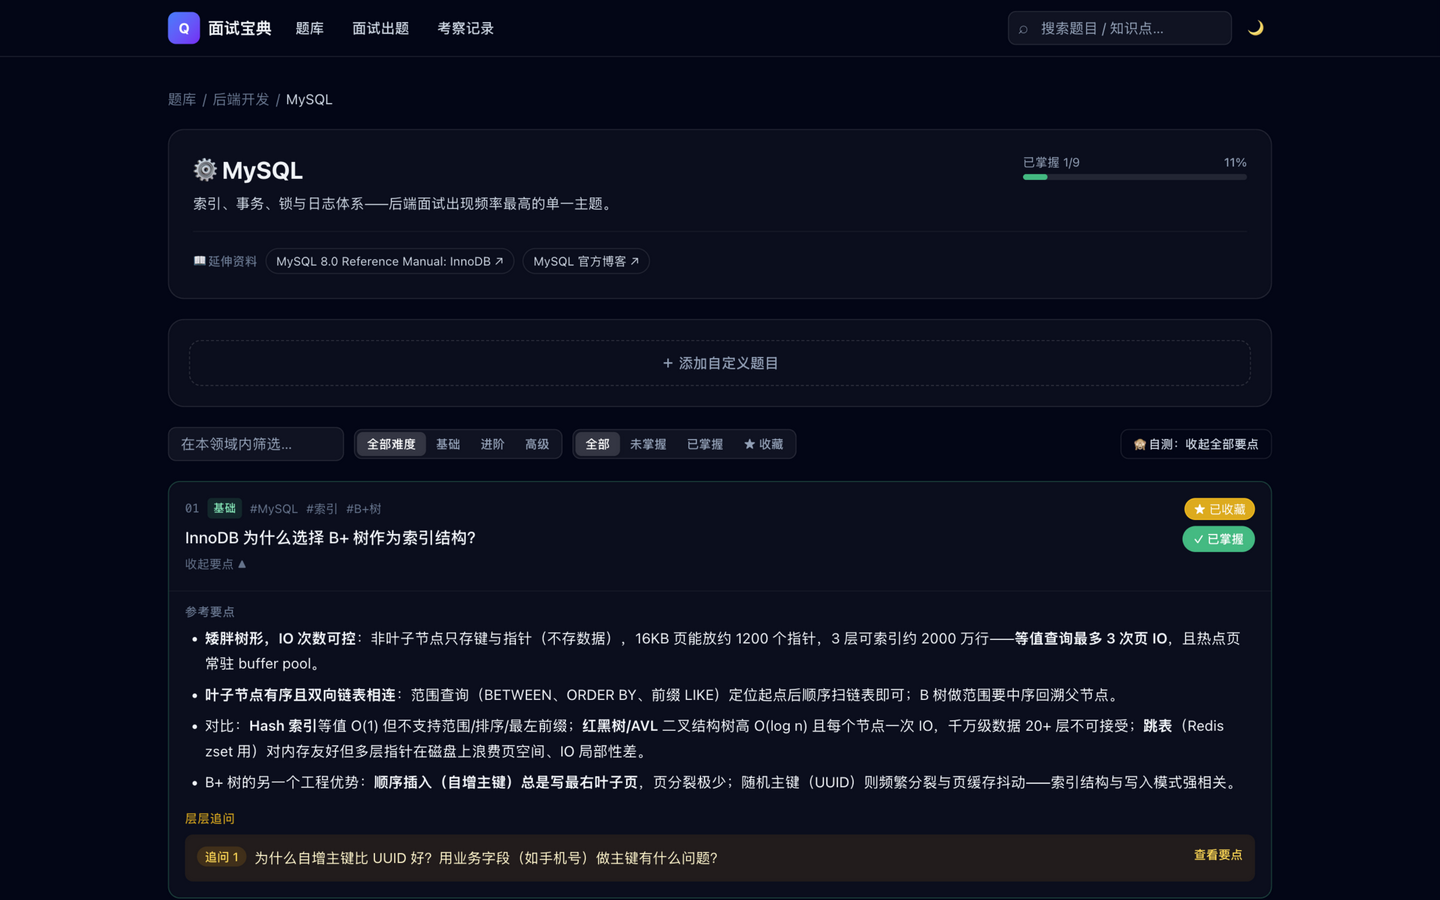
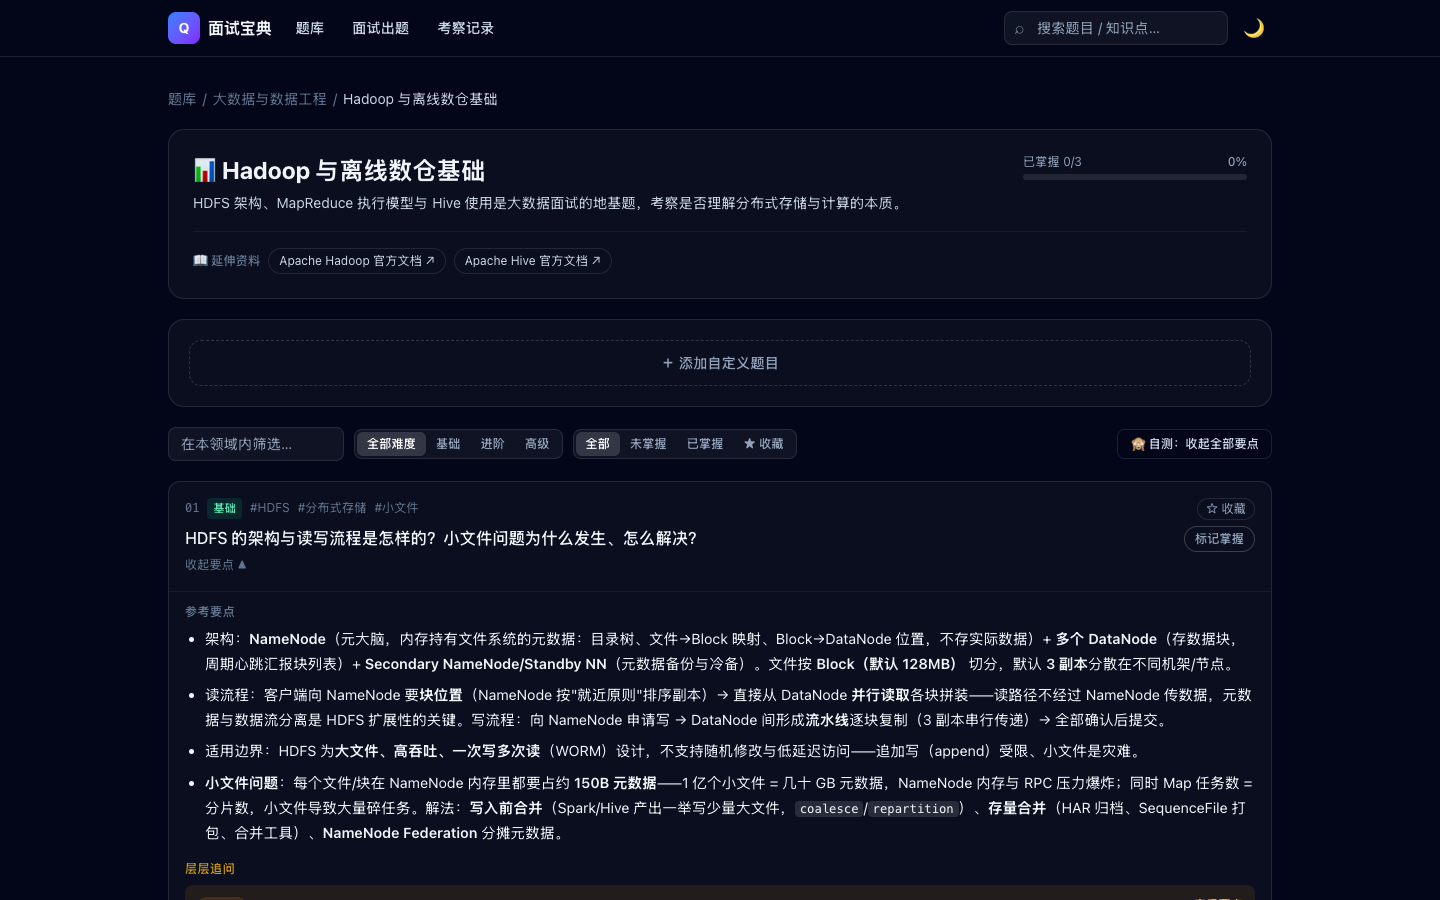
docs: README 同步 12 方向 / 413 题现状与补充题库约定（跨方向不重复），刷新首页与刷题页截图

diff --git a/README.md b/README.md
@@ -18,8 +18,8 @@
 - **收藏夹**：星标重点题目，刷题可按「★ 收藏」筛选，面试出题可勾选**只抽收藏题**做定向考察。
 - **考察记录**（`/history`）：历次出卷存档（候选人、评分、备注），可随时回看整卷、再次复制小结、删除记录。
 - **数据管理**（`/settings`）：刷题进度、评分、考察记录与自定义题目的导出备份 / 导入恢复 / 分类清空；支持把整站题库（含自定义题目）**一键导出为 Markdown 文档**，方便打印或导入笔记工具。
-- **十大数据方向**：后端开发（旗舰题库）、前端开发、计算机基础、**操作系统**、**计算机组成原理**、系统设计、移动端、AI 与算法、测试与运维、职业发展。
-- **深度追问链**：全站 385 题中 97% 配有层层递进的追问链（共 570+ 步），追问自带参考要点，按"原理 → 边界场景 → 方案权衡"展开；追问内容已纳入全局搜索。
+- **十二大数据方向**：后端开发、前端开发、计算机基础、**操作系统**、**计算机组成原理**、系统设计、**大数据与数据工程**、移动端、AI 与大模型、**测试与质量**、**运维与云原生**、职业发展。
+- **深度追问链**：全站 413 题中 97% 配有层层递进的追问链（共 609 步），追问自带参考要点，按"原理 → 边界场景 → 方案权衡"展开；追问内容已纳入全局搜索。
 - **首页随机一题**：一键从全站题库抽题直达，适合碎片时间背题。
 - **全局搜索**（`/search`）：跨方向检索题目、要点、追问与标签；支持「☆ 只看收藏」过滤与关键词高亮。
 - **三态主题**：默认**深色**，可切浅色 / 跟随系统（OS 切换实时联动），选择持久化。
@@ -55,8 +55,8 @@ npm run preview   # 预览构建产物
 
 所有题目都是纯数据，在 `src/data/` 下按方向一个文件：
 
-1. 新建 `src/data/your-track.ts`，导出一个 `Track` 对象（类型见 `src/types.ts`）。
-2. 在 `src/data/index.ts` 的 `rawTracks` 中注册。
+1. 新建 `src/data/your-track.ts`，导出一个 `Track` 对象（类型见 `src/types.ts`），题目 id 使用统一前缀（如 `be-`、`fe-`）。
+2. 在 `src/data/trackLoaders.ts` 中注册加载器，并在 `src/data/content.test.ts` 的 `allowedPrefixes` 里登记方向前缀。
 3. 题目结构：
 
 ```ts
@@ -77,13 +77,15 @@ npm run preview   # 预览构建产物
 
 内容约定：要点要具体、可背诵、关键术语加粗；追问按"原理 → 边界 → 权衡"递进；
 `references` 只放确定真实存在的官方文档链接。
+**跨方向不重复**：同一主题不允许在多个方向各写一道"差不多"的题——要么只保留一处，要么明确分工视角
+（如 epoll：操作系统方向讲内核机制、后端方向讲 Reactor 应用模型），互相在正文注明分工。
 
-内容质量由自动化测试守护（`npm test`）：题目 id 全站唯一且符合方向前缀、每题必有非空要点、
+内容质量由自动化测试守护（`npm test`）：题目 id 全站唯一且符合方向前缀、**题目标题跨方向查重**、每题必有非空要点、
 延伸资料必须 https、领域内按 基础→进阶→高级 自动排序——脏数据会被 CI 直接拦下。
 
 ## 性能
 
-- 首屏主包约 90KB（gzip），不含任何题目内容；题库按方向拆成 10 个分包，异步加载（约 410KB gzip 全量）
+- 首屏主包约 90KB（gzip），不含任何题目内容；题库按方向拆成 12 个分包，异步加载
 - 页面级代码分割（React.lazy），PWA Service Worker 缓存后二次访问与离线场景秒开
 
 ## 目录结构
